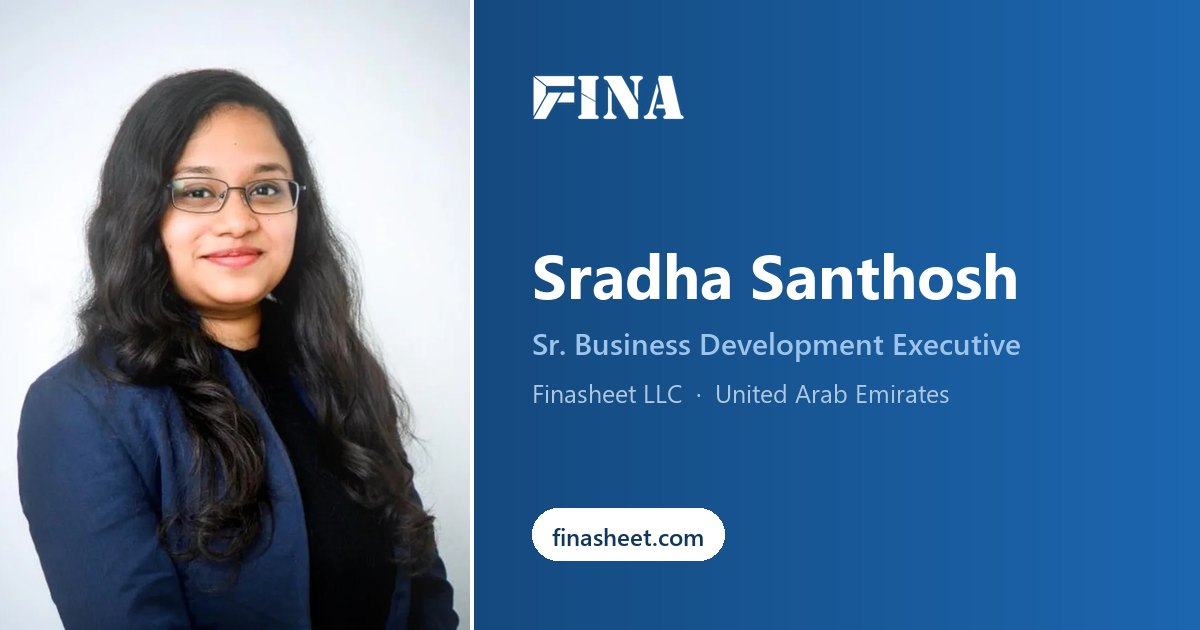
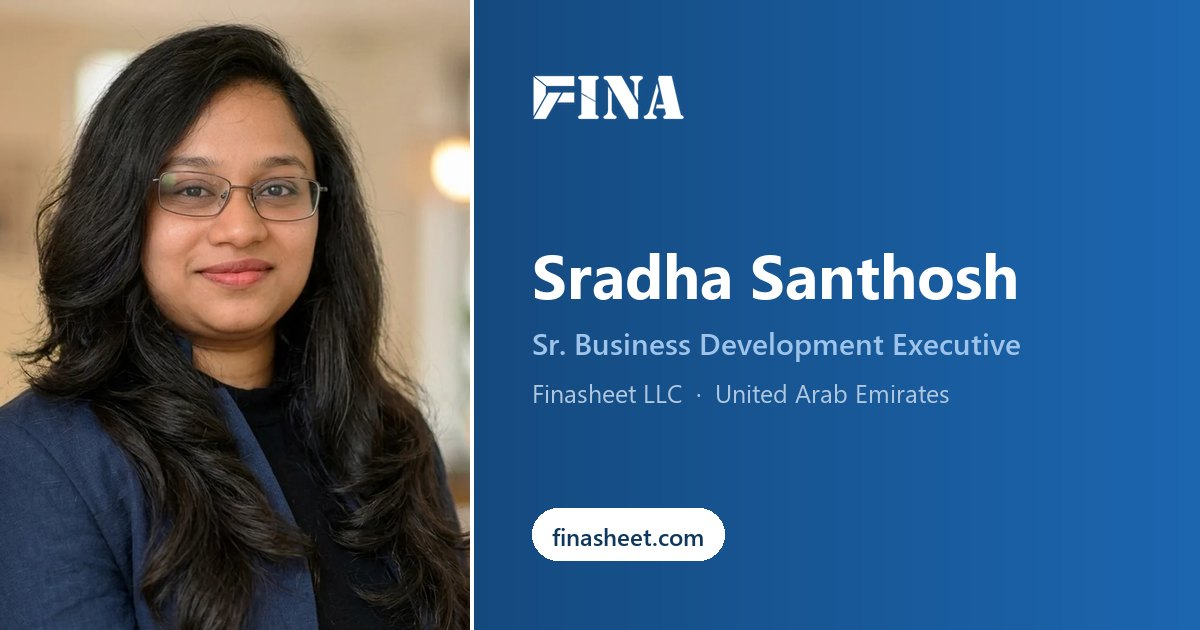
Use Sradha Santhosh's new headshot
Replaces the original in the archive and re-cuts the three derived
images from it: the card hero, the square avatar schema.org points at,
and the link preview.

Her eyes sit at (535, 240) in the new frame rather than (575, 277), so
the FACE anchor moves with the photo. Without that the crop would still
be measured against the old headshot and the eye line would drift off
the 30% the card's CSS anchors to.

Buhari's and Moiz's images rebuild byte-identical and are untouched.

diff --git a/scripts/build-team-photos.py b/scripts/build-team-photos.py
@@ -29,7 +29,7 @@ OUT_W = 800
 # slug -> (face centre x, eye line y) measured in the original
 FACE = {
     "buhari-anshif": (555, 271),
-    "sradha-santhosh": (575, 277),
+    "sradha-santhosh": (535, 240),
     "moiz-fakhruddin": (398, 292),
 }
 
